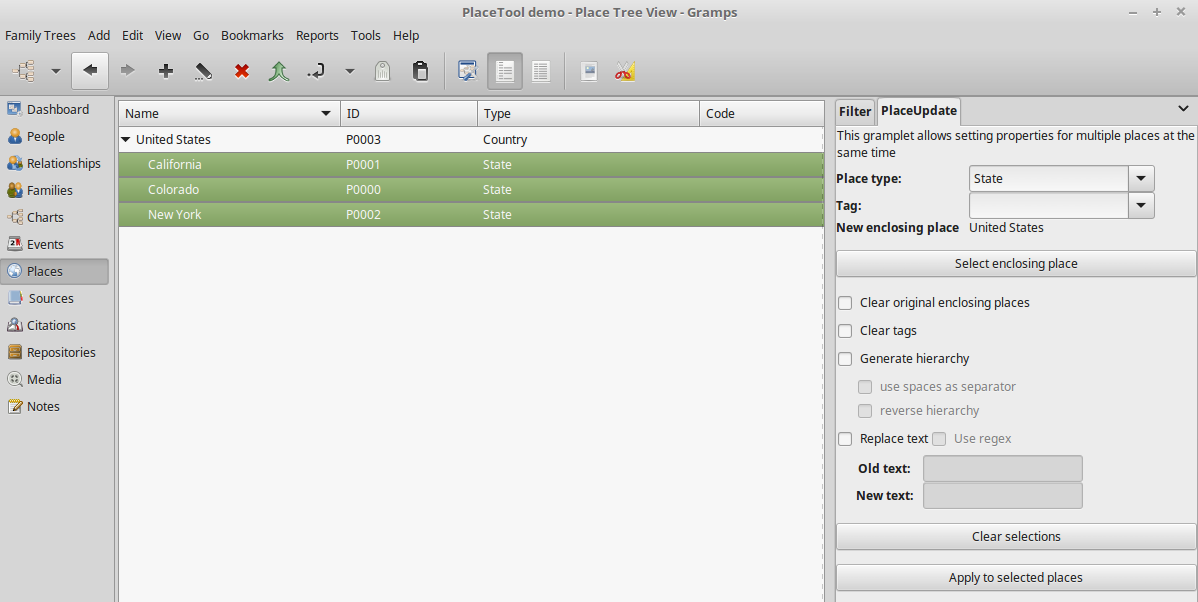
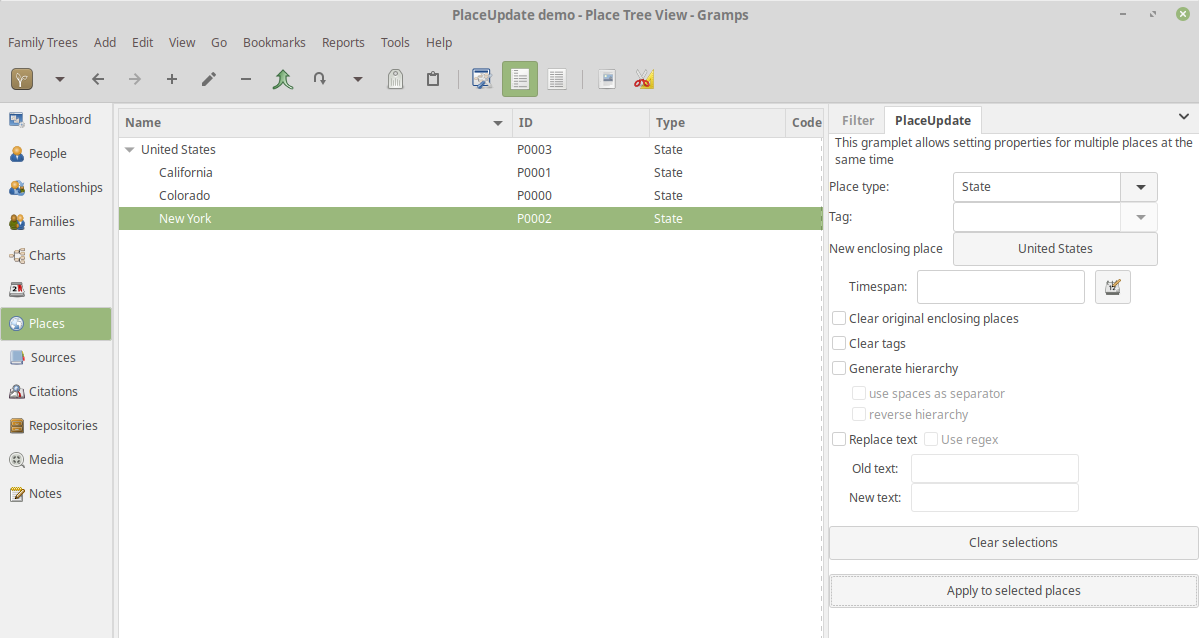
Added timespan

Changed region(s): [[0.0, 0.0299, 1.0, 1.0], [0.3706, 0.0, 0.6177, 0.0299], [0.9574, 0.0, 1.0, 0.0299]]

diff --git a/PlaceUpdate/PlaceUpdate.py b/PlaceUpdate/PlaceUpdate.py
@@ -23,6 +23,8 @@
 # Author: kari.kujansuu@gmail.com
 # 9 Jun 2019
 #
+# v1.0.4 (30 Aug 2020): added "timespan"
+#
 # Gramplet to change properties of multiple places at the same time. See README.
 
 import re
@@ -32,9 +34,10 @@ from gi.repository import Gtk
 
 from gramps.gen.plug import Gramplet
 from gramps.gen.db import DbTxn
-from gramps.gen.lib import Place, PlaceRef, PlaceName, PlaceType, Tag
+from gramps.gen.lib import Place, PlaceRef, PlaceName, PlaceType, Tag, Date
 
 from gramps.gui.selectors import SelectorFactory
+from gramps.gui.widgets import MonitoredDate, ValidatableMaskedEntry
 
 from gramps.gen.const import GRAMPS_LOCALE as glocale
 try:
@@ -70,7 +73,8 @@ class PlaceUpdate(Gramplet):
     def cb_clear(self, obj):
         self.selected_handle = None
         self.selected_name = ""
-        self.enclosing_place.set_text(_("None"))
+        #self.enclosing_place.set_text(_("None"))
+        self.but_set_enclosing.set_label(_("Select"))
         self.tagcombo.get_child().set_text("")
         self.typecombo.get_child().set_text("")
         self.clear_enclosing.set_active(False)
@@ -82,6 +86,8 @@ class PlaceUpdate(Gramplet):
         self.use_regex.set_active(False)
         self.old_text.set_text("")
         self.new_text.set_text("")
+        self.date_object.set()
+        self.date_entry.set_text("")
 
     def __create_gui(self):
         vbox = Gtk.VBox(orientation=Gtk.Orientation.VERTICAL)
@@ -110,20 +116,45 @@ class PlaceUpdate(Gramplet):
         self.enclosing_place = Gtk.Label(_("None"))
         self.enclosing_place.set_halign(Gtk.Align.START)
 
+        date_label = Gtk.Label(_('Timespan:'))
+        date_label.set_halign(Gtk.Align.START)
+        self.date_entry = ValidatableMaskedEntry()
+        date_button = Gtk.Button.new_from_icon_name("gramps-date", -1)
+        timespan_tooltip = _("Set timespan for enclosing places")
+        date_label.set_tooltip_text(timespan_tooltip)
+        date_button.set_tooltip_text(timespan_tooltip)
+        self.date_entry.set_tooltip_text(timespan_tooltip)
+        self.date_object = Date()
+        self.track = []
+        self.date_field = MonitoredDate(self.date_entry,
+                                        date_button,
+                                        self.date_object,
+                                        self.uistate, self.track)
+
         pt_grid = Gtk.Grid(column_spacing=10)
         pt_grid.attach(pt_label, 0, 0, 1, 1)
         pt_grid.attach(self.typecombo, 1, 0, 1, 1)
 
         pt_grid.attach(tag_label, 0, 1, 1, 1)
         pt_grid.attach(self.tagcombo, 1, 1, 1, 1)
+
         pt_grid.attach(label1, 0, 2, 1, 1)
-        pt_grid.attach(self.enclosing_place, 1, 2, 1, 1)
+
+        pl_grid = Gtk.Grid(column_spacing=10)
+        pl_grid.set_margin_left(20)
+        #pt_grid.attach(self.enclosing_place, 1, 2, 1, 1)
+
+        pl_grid.attach(date_label, 1, 4, 1, 1)
+        pl_grid.attach(self.date_entry, 2, 4, 1, 1)
+        pl_grid.attach(date_button, 3, 4, 1, 1)
 
         vbox.pack_start(pt_grid, False, True, 0)
+        vbox.pack_start(pl_grid, False, True, 0)
 
-        but_set_enclosing = Gtk.Button(label=_('Select enclosing place'))
-        but_set_enclosing.connect("clicked", self.cb_select)
-        vbox.pack_start(but_set_enclosing, False, True, 10)
+        self.but_set_enclosing = Gtk.Button(label=_('Select'))
+        self.but_set_enclosing.connect("clicked", self.cb_select)
+        #vbox.pack_start(self.but_set_enclosing, False, True, 10)
+        pt_grid.attach(self.but_set_enclosing, 1, 2, 1, 1 )
 
         self.clear_enclosing = Gtk.CheckButton(_("Clear original enclosing places"))
         vbox.pack_start(self.clear_enclosing, False, True, 0)
@@ -207,7 +238,18 @@ class PlaceUpdate(Gramplet):
         title = selected_parent.get_title()
         if title:
             self.selected_name += " (title={})".format(title)
-        self.enclosing_place.set_text(self.selected_name)
+        #self.enclosing_place.set_text(self.selected_name)
+        self.but_set_enclosing.set_label(self.selected_name)
+         
+    def cb_set_enclosing_dates(self, obj):
+        #SelectDate = SelectorFactory('Date')
+        sel = EditDate(None, self.gui.uistate, None)
+        date = sel.run()
+        print("date=", date)
+        if not date:
+            return
+        pass
+
 
     def cb_select_generate_hierarchy(self, obj):
         checked = self.generate_hierarchy.get_active()
@@ -302,6 +344,7 @@ class PlaceUpdate(Gramplet):
         print(pname, "<", self.selected_name)
         placeref = PlaceRef()
         placeref.ref = self.selected_handle
+        placeref.set_date_object(self.date_object)
         place.add_placeref(placeref)
 
 
@@ -353,6 +396,7 @@ class PlaceUpdate(Gramplet):
                 if parent_handle is not None:
                     placeref = PlaceRef()
                     placeref.ref = parent_handle
+                    placeref.set_date_object(self.date_object)
                     new_place.add_placeref(placeref)
                 parent_handle = self.dbstate.db.add_place(new_place, self.trans)
             else:
@@ -363,6 +407,7 @@ class PlaceUpdate(Gramplet):
         if parent_handle is not None:
             placeref = PlaceRef()
             placeref.ref = parent_handle
+            placeref.set_date_object(self.date_object)
             place.set_placeref_list([placeref]) # this removes any previous parent
         return top_place
 

diff --git a/PlaceUpdate/PlaceUpdate.gpr.py b/PlaceUpdate/PlaceUpdate.gpr.py
@@ -3,7 +3,7 @@ register(GRAMPLET,
          name = _("PlaceUpdate"),
          description = _("Gramplet to manipulate multiple places"),
          status = STABLE,
-         version = '1.0.3',
+         version = '1.0.4',
          gramps_target_version = '5.1',
          fname = "PlaceUpdate.py",
          gramplet = 'PlaceUpdate',

diff --git a/PlaceUpdate/README.md b/PlaceUpdate/README.md
@@ -23,7 +23,7 @@ The user interface looks like:
 **Setting enclosing place**
 
 For the enclosing place first select the place that should enclose the other places 
-and click the "Set enclosing place" button. The selected place will be displayed.
+and click the "Select" button next to the "New enclosing place" label. The selected place will be displayed as the label of the button.
 Then select any number of places that should  be enclosed by the first one
 and click the "Apply to selected places" button. 
 
@@ -34,6 +34,8 @@ This can e.g. be used to "move" the places under another place.
 
 Attempts to set a duplicate enclosing place or a loop (so that a place contains itself) 
 are quietly bypassed.
+
+In the "Timespan" field you can specify relevant the date range if needed. This also affects the generated hierarchy (see below).
 
 
 **Setting place type or tag**
@@ -65,6 +67,8 @@ The hierarchy can also be generated in reverse, e.g. the result can also be
 The place type and tag setting affects only the original place.
 
 If the original place is under another place or a new enclosing place is specified then the new hierarchy is placed under the enclosing place.
+
+If a timespan is specified then it applies to all levels in the generated hierarchy.
 
 **Editing place names**
 
